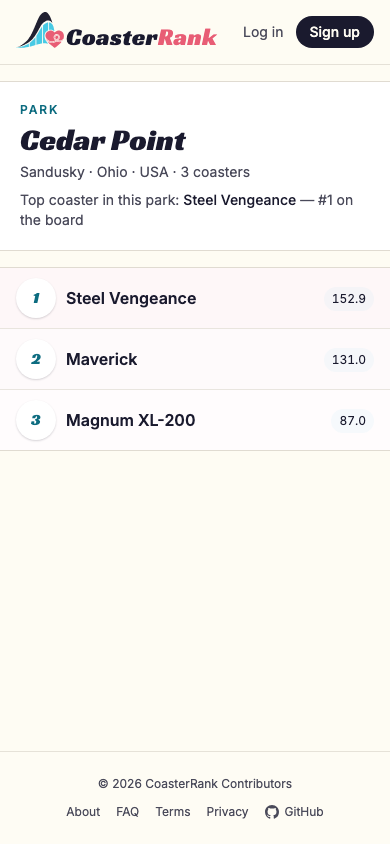
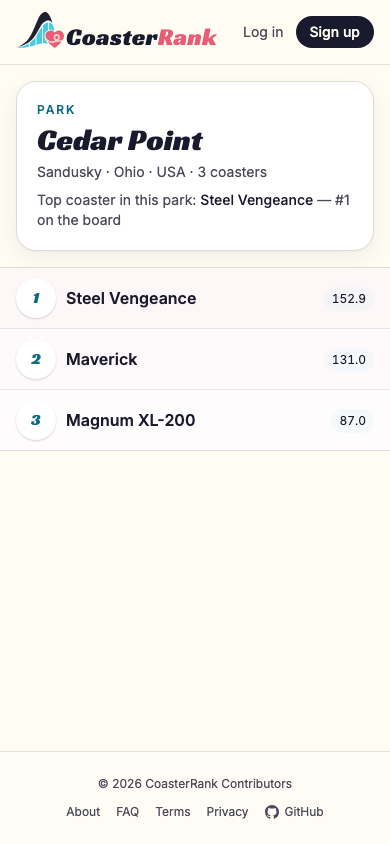
ui: keep park header as a card; bleed the table only

Changed region(s): [[0.0308, 0.0924, 0.8923, 0.3081]]

diff --git a/app/src/pages/ParkDetailPage.tsx b/app/src/pages/ParkDetailPage.tsx
@@ -45,7 +45,7 @@ export default function ParkDetailPage() {
 
   return (
     <div>
-      <Panel bleed className="p-5 sm:p-6">
+      <Panel className="p-5 sm:p-6">
         <p className="text-xs font-semibold uppercase tracking-[0.16em] text-accent-text">Park</p>
         <h1 className="display-heading mt-1 text-3xl text-ink sm:text-4xl">{park.data.name}</h1>
         <p className="mt-1 text-sm text-muted">
